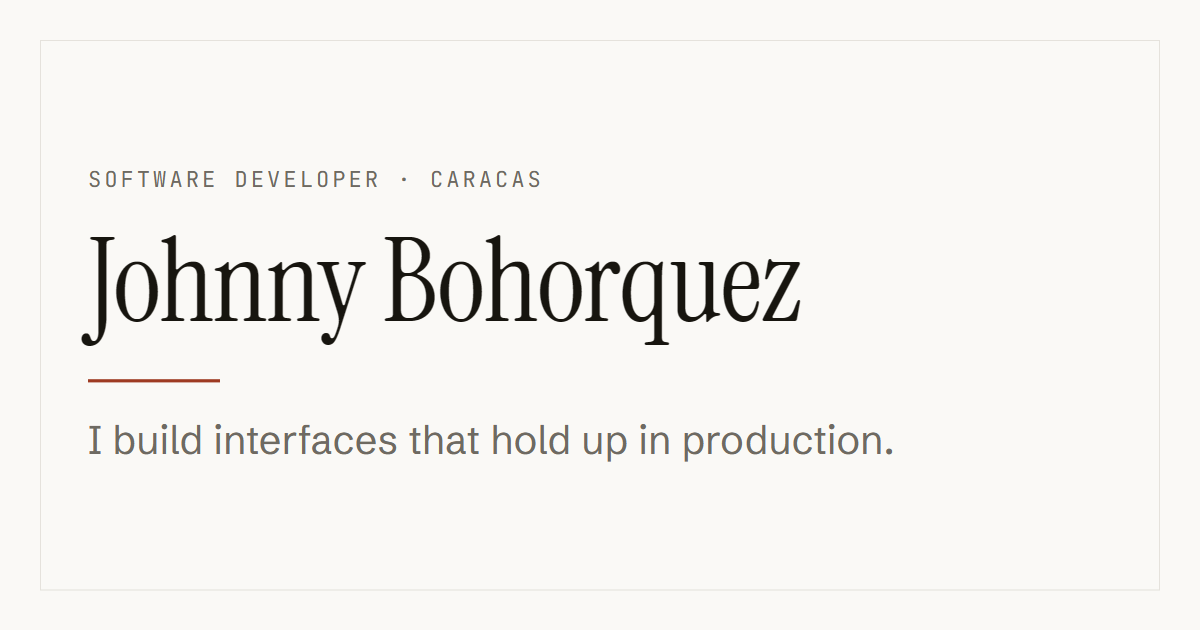
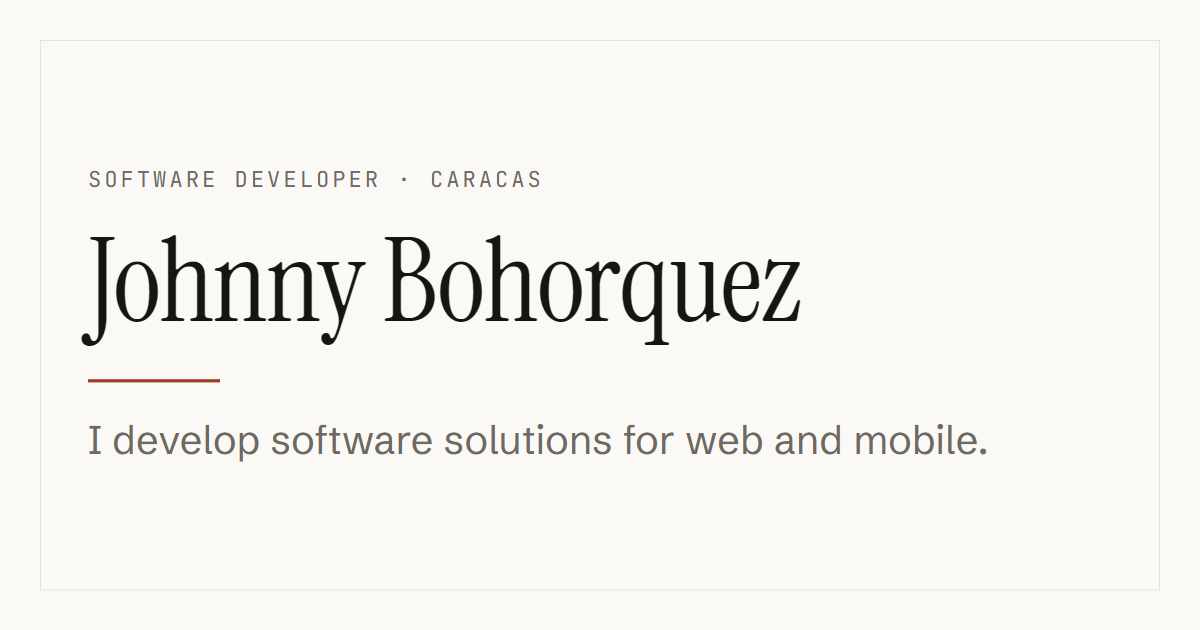
rewrite the hero headline
Pasa a "Desarrollo soluciones de software para web y movil."

La anterior hablaba de aguantar produccion, que sonaba a jerga. Y las
alternativas que propuse primero mencionaban empresas o negocio, que
encasilla y cierra mercado.

Esta es general en cuanto a sector pero concreta en alcance: "web y
movil" es el unico dato que no es relleno, y es comprobable con el stack
real (React y Angular por un lado, Flutter y React Native por otro).
La mayoria de quien dice "soluciones de software" no envia movil nativo.

Se regeneran las dos OG images, que llevaban la frase vieja grabada. De
paso se ensancha la caja del claim a 1024px (los 1200 menos el padding)
para que entre en una sola linea en vez de dejar "movil." huerfano.

Verificado en el navegador: 96px, Instrument Serif, dos lineas
equilibradas en los 896px del contenedor.

Changed region(s): [[0.0925, 0.6635, 0.8325, 0.7238]]

diff --git a/src/content/es/ui.ts b/src/content/es/ui.ts
@@ -14,7 +14,7 @@ export const ui: UIStrings = {
   },
   hero: {
     eyebrow: 'Desarrollador de software · Caracas',
-    headline: 'Construyo interfaces que aguantan producción.',
+    headline: 'Desarrollo soluciones de software para web y móvil.',
     cta: 'Ver proyectos',
     scrollHint: 'Sigue bajando',
   },

diff --git a/src/content/en/ui.ts b/src/content/en/ui.ts
@@ -14,7 +14,7 @@ export const ui: UIStrings = {
   },
   hero: {
     eyebrow: 'Software Developer · Caracas',
-    headline: 'I build interfaces that hold up in production.',
+    headline: 'I develop software solutions for web and mobile.',
     cta: 'See the work',
     scrollHint: 'Keep scrolling',
   },
